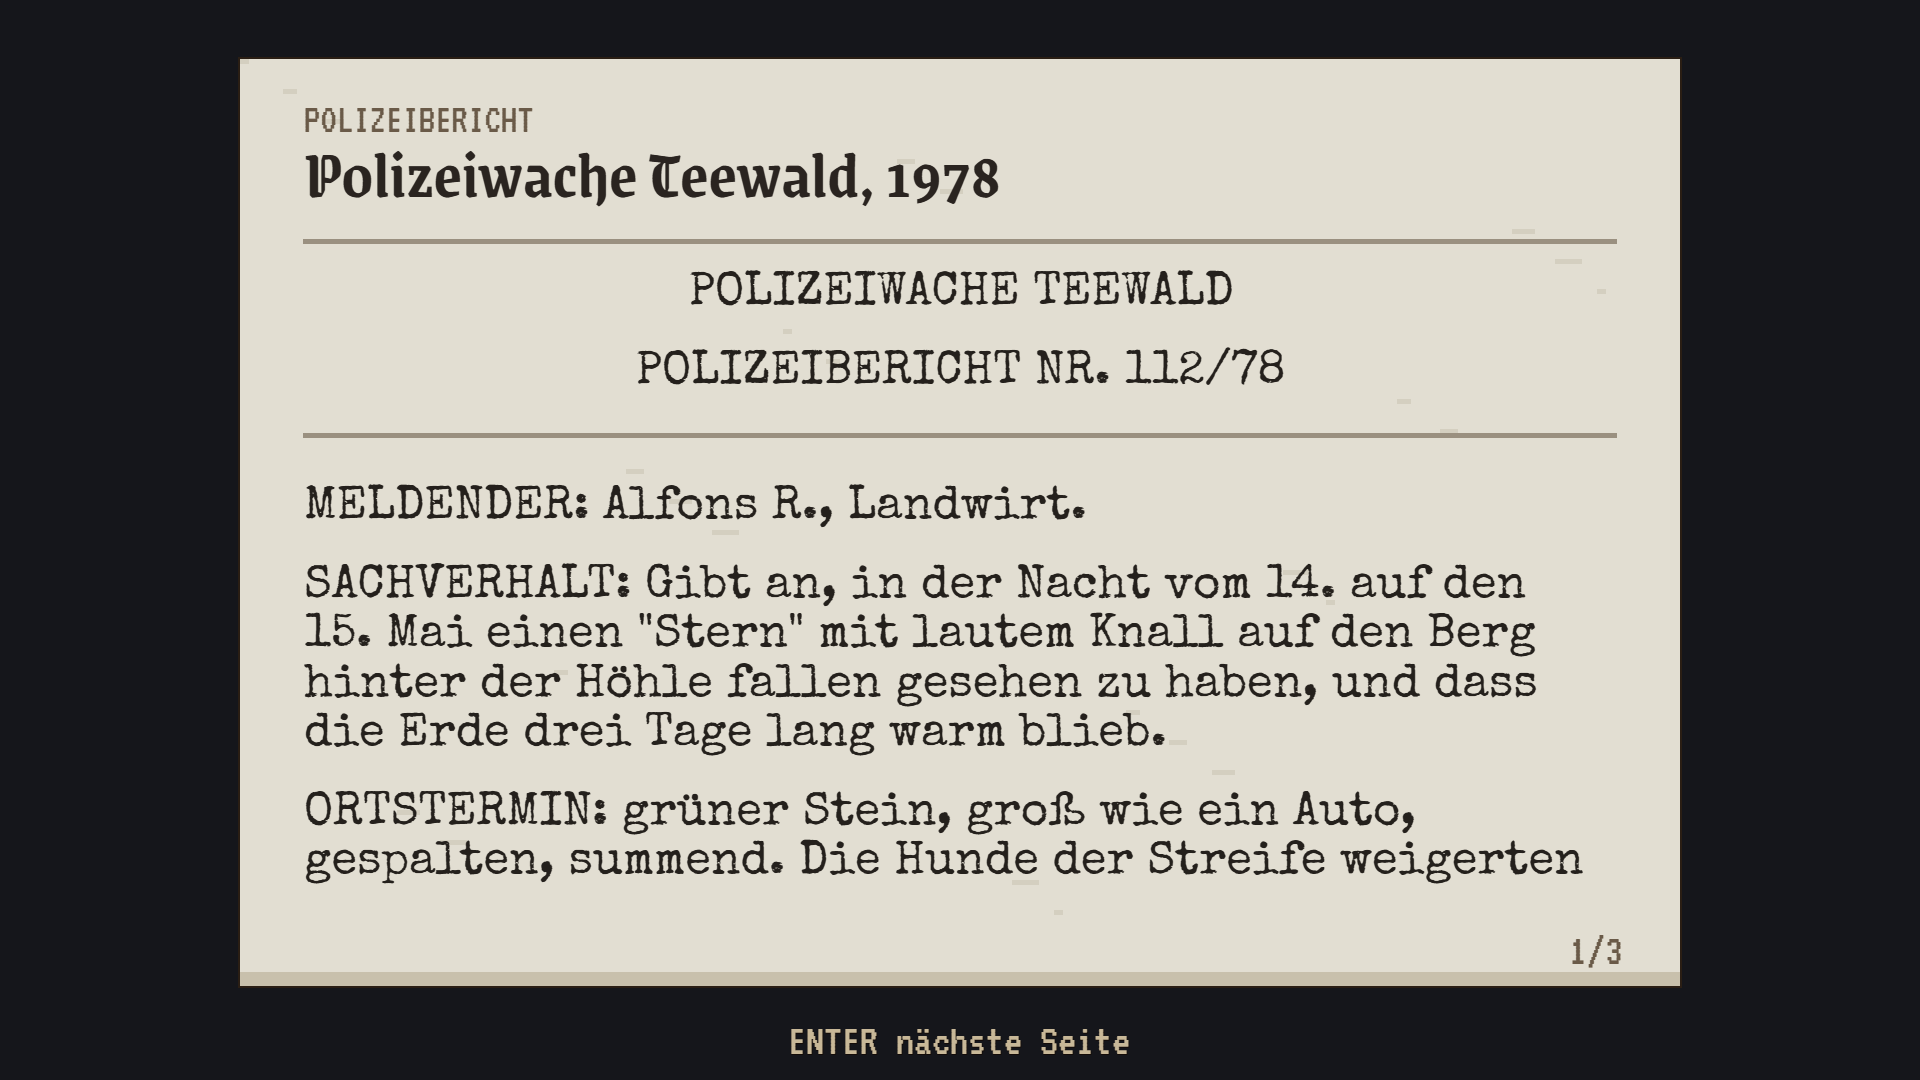
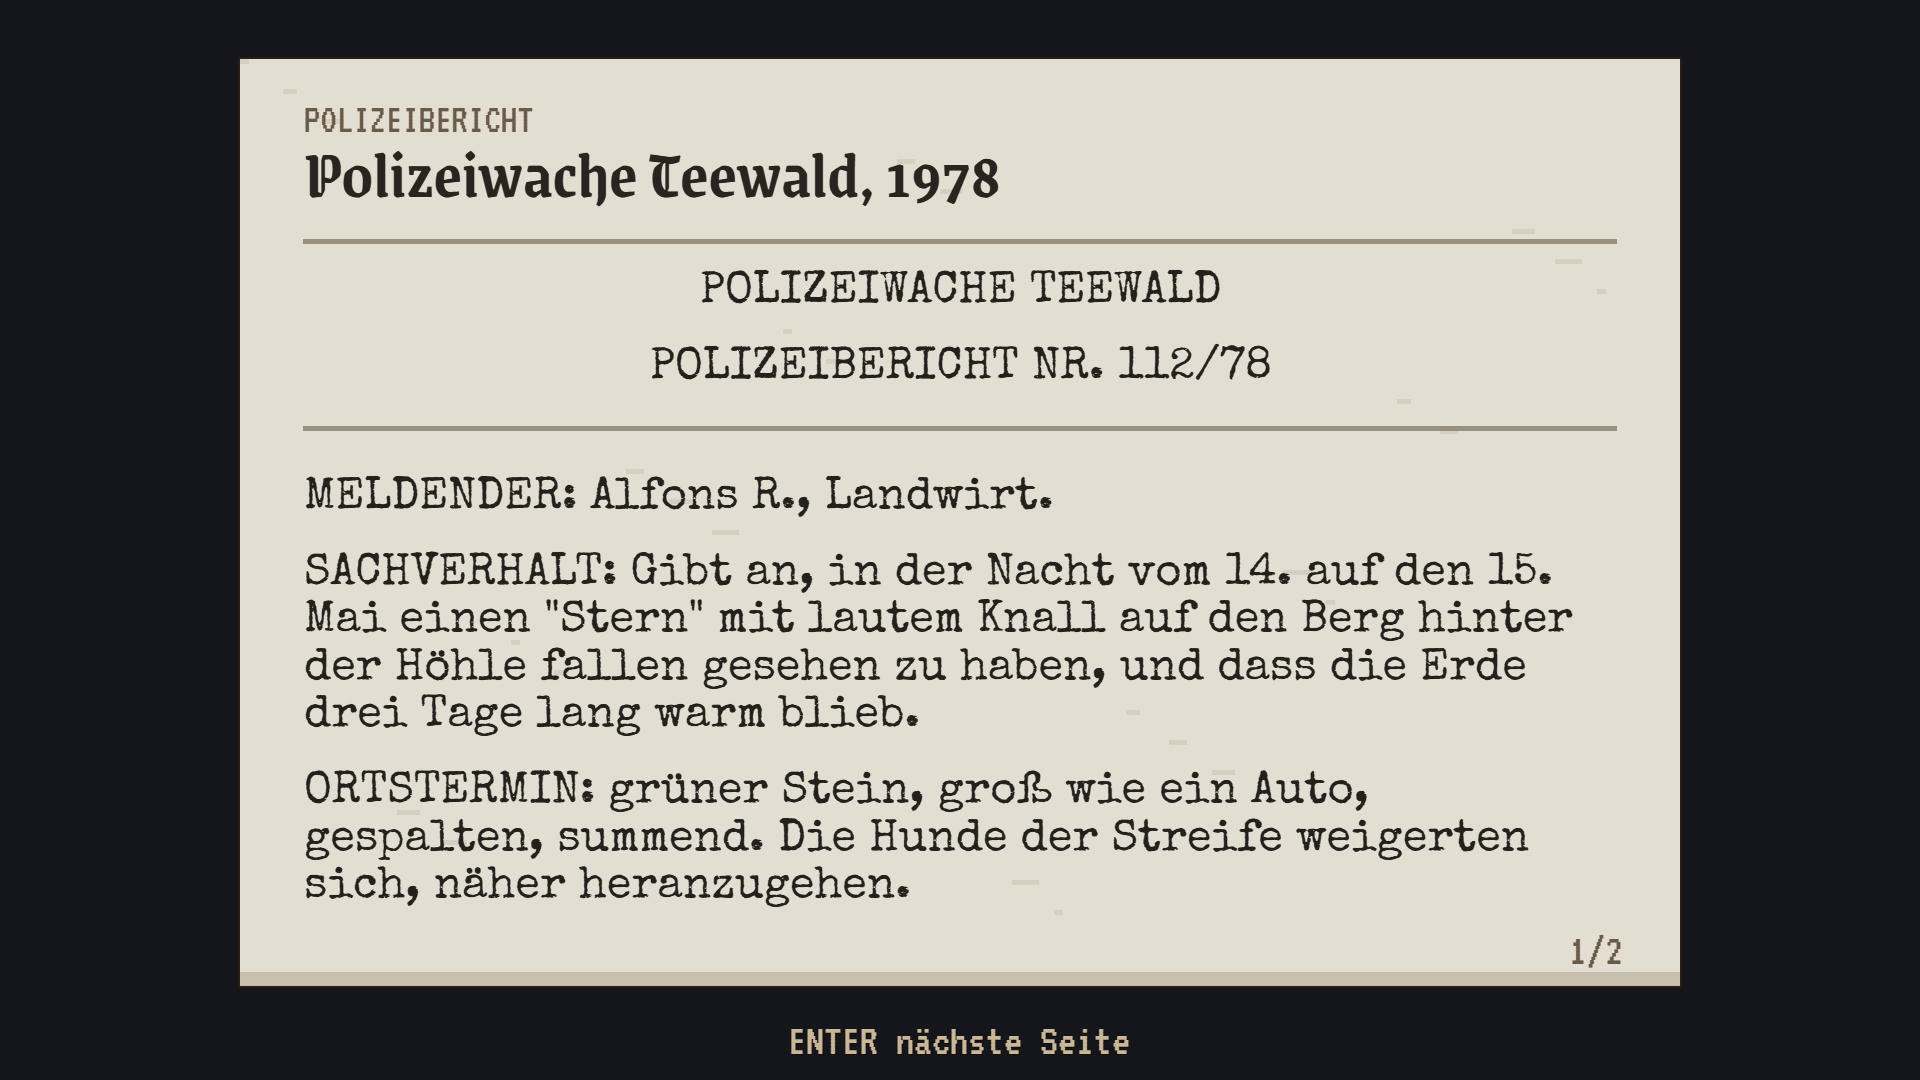
Papel: letra um pouco menor em vez de página com uma ou duas linhas sobrando
Quando a tradução passa um pouco do papel, a página encolhe a letra (até 84%)
para caber, em vez de abrir uma página quase vazia. O português fica igual.
Imagens de shots/ regeradas (nota_agro, ata1879, boletim1978, wendt2).

Changed region(s): [[0.1562, 0.3972, 0.8438, 0.8556], [0.3125, 0.2444, 0.6875, 0.3667]]

diff --git a/src/ui/paper.js b/src/ui/paper.js
@@ -93,61 +93,79 @@ export class Paper {
     const box = this._box(W, H), cw = box.w - 28 * k, ch = box.h - 62 * k;
     this.pages = [];
     for (const src of this.doc.pages) {
-      const pg = Array.isArray(src) ? { blocks: src } : src;
-      const paper = pg.paper || this.doc.paper || 'old', pal = PAPER[paper] || PAPER.old;
-      const meta = { paper, marks: pg.marks || (pg.paper ? [] : this.doc.marks || []), label: pg.label || null, postmark: pg.postmark || null };
-      // no caderno o parágrafo novo só começa na linha de baixo
-      const gap = (pal.row ? 0 : 6.5) * k;
-      let cur = [], used = 0, float = null, prev = null;
-      const flush = () => { this.pages.push({ ...meta, items: cur }); cur = []; used = 0; float = null; };
-      const place = it => {
-        if (it.kind === 'gap' && !it.keep && !cur.length) return;
-        if (cur.length && used + it.h > ch) {
-          while (cur.length && cur[cur.length - 1].kind === 'gap') cur.pop();
-          flush();
-          if (it.kind === 'gap') return;
-        }
-        cur.push(it); used += it.h;
-      };
-      // o que sobra da imagem ao lado do texto vira espaço
-      const endFloat = () => { if (float && used < float.until) place({ kind: 'gap', h: float.until - used }); float = null; };
-      for (const b0 of pg.blocks) {
-        const b = typeof b0 === 'string' ? { t: b0 } : b0;
-        if (prev && gap && !(prev.entry && b.entry)) place({ kind: 'gap', h: gap });
-        prev = b;
-        // imagem flutuante: o texto seguinte corre do lado dela
-        if (b.img && b.float) {
-          endFloat();
-          const it = this._items(b, k, cw, ch, pal)[0];
-          if (!it) continue;
-          if (cur.length && used + it.ih > ch) flush();
-          it.float = b.float; it.h = 0;
-          place(it);
-          float = { until: used + it.ih + 4 * k, w: it.w + 8 * k, side: b.float };
-          prev = null;
-          continue;
-        }
-        if (float && (b.t == null || used >= float.until)) endFloat();
-        const side = float ? float.w : 0;
-        for (const it of this._items(b, k, cw - side, ch, pal)) {
-          if (float && it.kind === 'text') { it.narrow = side; if (float.side === 'left') it.indent = side; }
-          place(it);
+      let pages = this._lay(src, k, cw, ch, 1);
+      // a tradução às vezes passa um pouco do papel: em vez de uma página com uma ou duas linhas,
+      // a letra daquela página diminui um pouco até caber (o português fica como está)
+      if (pages.length > 1 && pages[pages.length - 1].used <= ch * 0.3) {
+        for (let f = 0.98; f > 0.83; f -= 0.02) {
+          const p = this._lay(src, k, cw, ch, f);
+          if (p.length < pages.length) { pages = p; break; }
         }
       }
-      endFloat();
-      flush();
+      this.pages.push(...pages);
     }
     this.page = Math.min(this.page, this.pages.length - 1);
   }
 
-  _items(b, k, cw, ch, pal) {
+  // uma página do documento em páginas da tela; f = escala da letra
+  _lay(src, k, cw, ch, f) {
+    const pg = Array.isArray(src) ? { blocks: src } : src;
+    const paper = pg.paper || this.doc.paper || 'old', pal = PAPER[paper] || PAPER.old;
+    const meta = { paper, marks: pg.marks || (pg.paper ? [] : this.doc.marks || []), label: pg.label || null, postmark: pg.postmark || null };
+    const pages = [];
+    // no caderno o parágrafo novo só começa na linha de baixo
+    const gap = (pal.row ? 0 : 6.5) * k * f;
+    let cur = [], used = 0, float = null, prev = null;
+    const flush = () => { pages.push({ ...meta, items: cur, used }); cur = []; used = 0; float = null; };
+    const place = it => {
+      if (it.kind === 'gap' && !it.keep && !cur.length) return;
+      if (cur.length && used + it.h > ch) {
+        while (cur.length && cur[cur.length - 1].kind === 'gap') used -= cur.pop().h;
+        flush();
+        if (it.kind === 'gap') return;
+      }
+      cur.push(it); used += it.h;
+    };
+    // o que sobra da imagem ao lado do texto vira espaço
+    const endFloat = () => { if (float && used < float.until) place({ kind: 'gap', h: float.until - used }); float = null; };
+    for (const b0 of pg.blocks) {
+      const b = typeof b0 === 'string' ? { t: b0 } : b0;
+      if (prev && gap && !(prev.entry && b.entry)) place({ kind: 'gap', h: gap });
+      prev = b;
+      // imagem flutuante: o texto seguinte corre do lado dela
+      if (b.img && b.float) {
+        endFloat();
+        const it = this._items(b, k, cw, ch, pal)[0];
+        if (!it) continue;
+        if (cur.length && used + it.ih > ch) flush();
+        it.float = b.float; it.h = 0;
+        place(it);
+        float = { until: used + it.ih + 4 * k, w: it.w + 8 * k, side: b.float };
+        prev = null;
+        continue;
+      }
+      if (float && (b.t == null || used >= float.until)) endFloat();
+      const side = float ? float.w : 0;
+      for (const it of this._items(b, k, cw - side, ch, pal, f)) {
+        if (float && it.kind === 'text') { it.narrow = side; if (float.side === 'left') it.indent = side; }
+        place(it);
+      }
+    }
+    endFloat();
+    flush();
+    return pages;
+  }
+
+  // f = escala da letra (texto, bilhete, lista); imagem, carimbo e assinatura não mudam
+  _items(b, k, cw, ch, pal, f = 1) {
     if (typeof b === 'string') b = { t: b };
     const key = b.t || b.note || b.sign || b.img || (b.entry || []).join('') || b.label || '';
     const seed = hash(key.length * 1.37 + (key.charCodeAt(0) || 0) + (key.charCodeAt(key.length - 1) || 0) * 0.01);
     if (b.space) return [{ kind: 'gap', keep: true, h: b.space * k }];
     if (b.t != null) {
-      const st = STYLE[b.s] || STYLE.print, sz = b.size || st.size, size = sz * k;
-      const lh = (pal.row && st.font === FONT_HAND ? pal.row : st.lh * sz / st.size) * k;
+      const st = STYLE[b.s] || STYLE.print, sz = b.size || st.size, size = sz * k * f;
+      // no caderno a letra à mão fica em cima da pauta
+      const lh = (pal.row && st.font === FONT_HAND ? pal.row : st.lh * sz / st.size * f) * k;
       return wrap(tr(b.t), size, cw - 4 * k, st.font).map((text, i) => ({
         kind: 'text', text, st, size, font: st.font, color: b.color || st.color || pal.ink, h: lh,
         align: b.align, strike: b.strike, ring: b.ring, words: b.words && tr(b.words).split(' ').map(norm), seed: seed * 100 + i,
@@ -175,13 +193,13 @@ export class Paper {
     }
     if (b.scribble) return [{ kind: 'scribble', label: b.label, color: b.color || pal.ink, seed, h: 30 * k }];
     if (b.note) {
-      const st = STYLE[b.s] || STYLE.hand, size = st.size * k, w = cw * (b.w || 0.62), lines = wrap(tr(b.note), size, w - 12 * k, st.font);
-      const bh = lines.length * st.lh * k + 9 * k;
-      return [{ kind: 'note', lines, st, size, w, bh, bg: b.bg || '#e6d468', h: bh + 6 * k }];
+      const st = STYLE[b.s] || STYLE.hand, size = st.size * k * f, lh = st.lh * k * f, w = cw * (b.w || 0.62), lines = wrap(tr(b.note), size, w - 12 * k, st.font);
+      const bh = lines.length * lh + 9 * k;
+      return [{ kind: 'note', lines, st, size, lh, w, bh, bg: b.bg || '#e6d468', h: bh + 6 * k }];
     }
     if (b.entry) {
       const [name, addr, num] = b.entry;
-      return [{ kind: 'entry', name, addr, num, ring: b.ring, size: 10.5 * k, seed, h: 11 * k }];
+      return [{ kind: 'entry', name, addr, num, ring: b.ring, size: 10.5 * k * f, seed, h: 11 * k * f }];
     }
     if (b.rule) return [{ kind: 'rule', h: 6 * k }];
     return [];
@@ -340,7 +358,7 @@ export class Paper {
       g.globalAlpha = a * 0.3; g.fillStyle = '#000'; g.fillRect(-it.w / 2 + 2 * k, -it.bh / 2 + 2 * k, it.w, it.bh);
       g.globalAlpha = a; g.fillStyle = it.bg; g.fillRect(-it.w / 2, -it.bh / 2, it.w, it.bh);
       g.globalAlpha = a * 0.25; g.fillStyle = '#fff'; g.fillRect(-it.w / 2, -it.bh / 2, it.w, R(3 * k));
-      it.lines.forEach((l, i) => drawText(g, l, -it.w / 2 + 6 * k, -it.bh / 2 + 4 * k + i * it.st.lh * k, it.size, { font: it.st.font, color: it.st.color, shadow: null, alpha: a, raw: true }));
+      it.lines.forEach((l, i) => drawText(g, l, -it.w / 2 + 6 * k, -it.bh / 2 + 4 * k + i * it.lh, it.size, { font: it.st.font, color: it.st.color, shadow: null, alpha: a, raw: true }));
       g.restore();
       return;
     }
